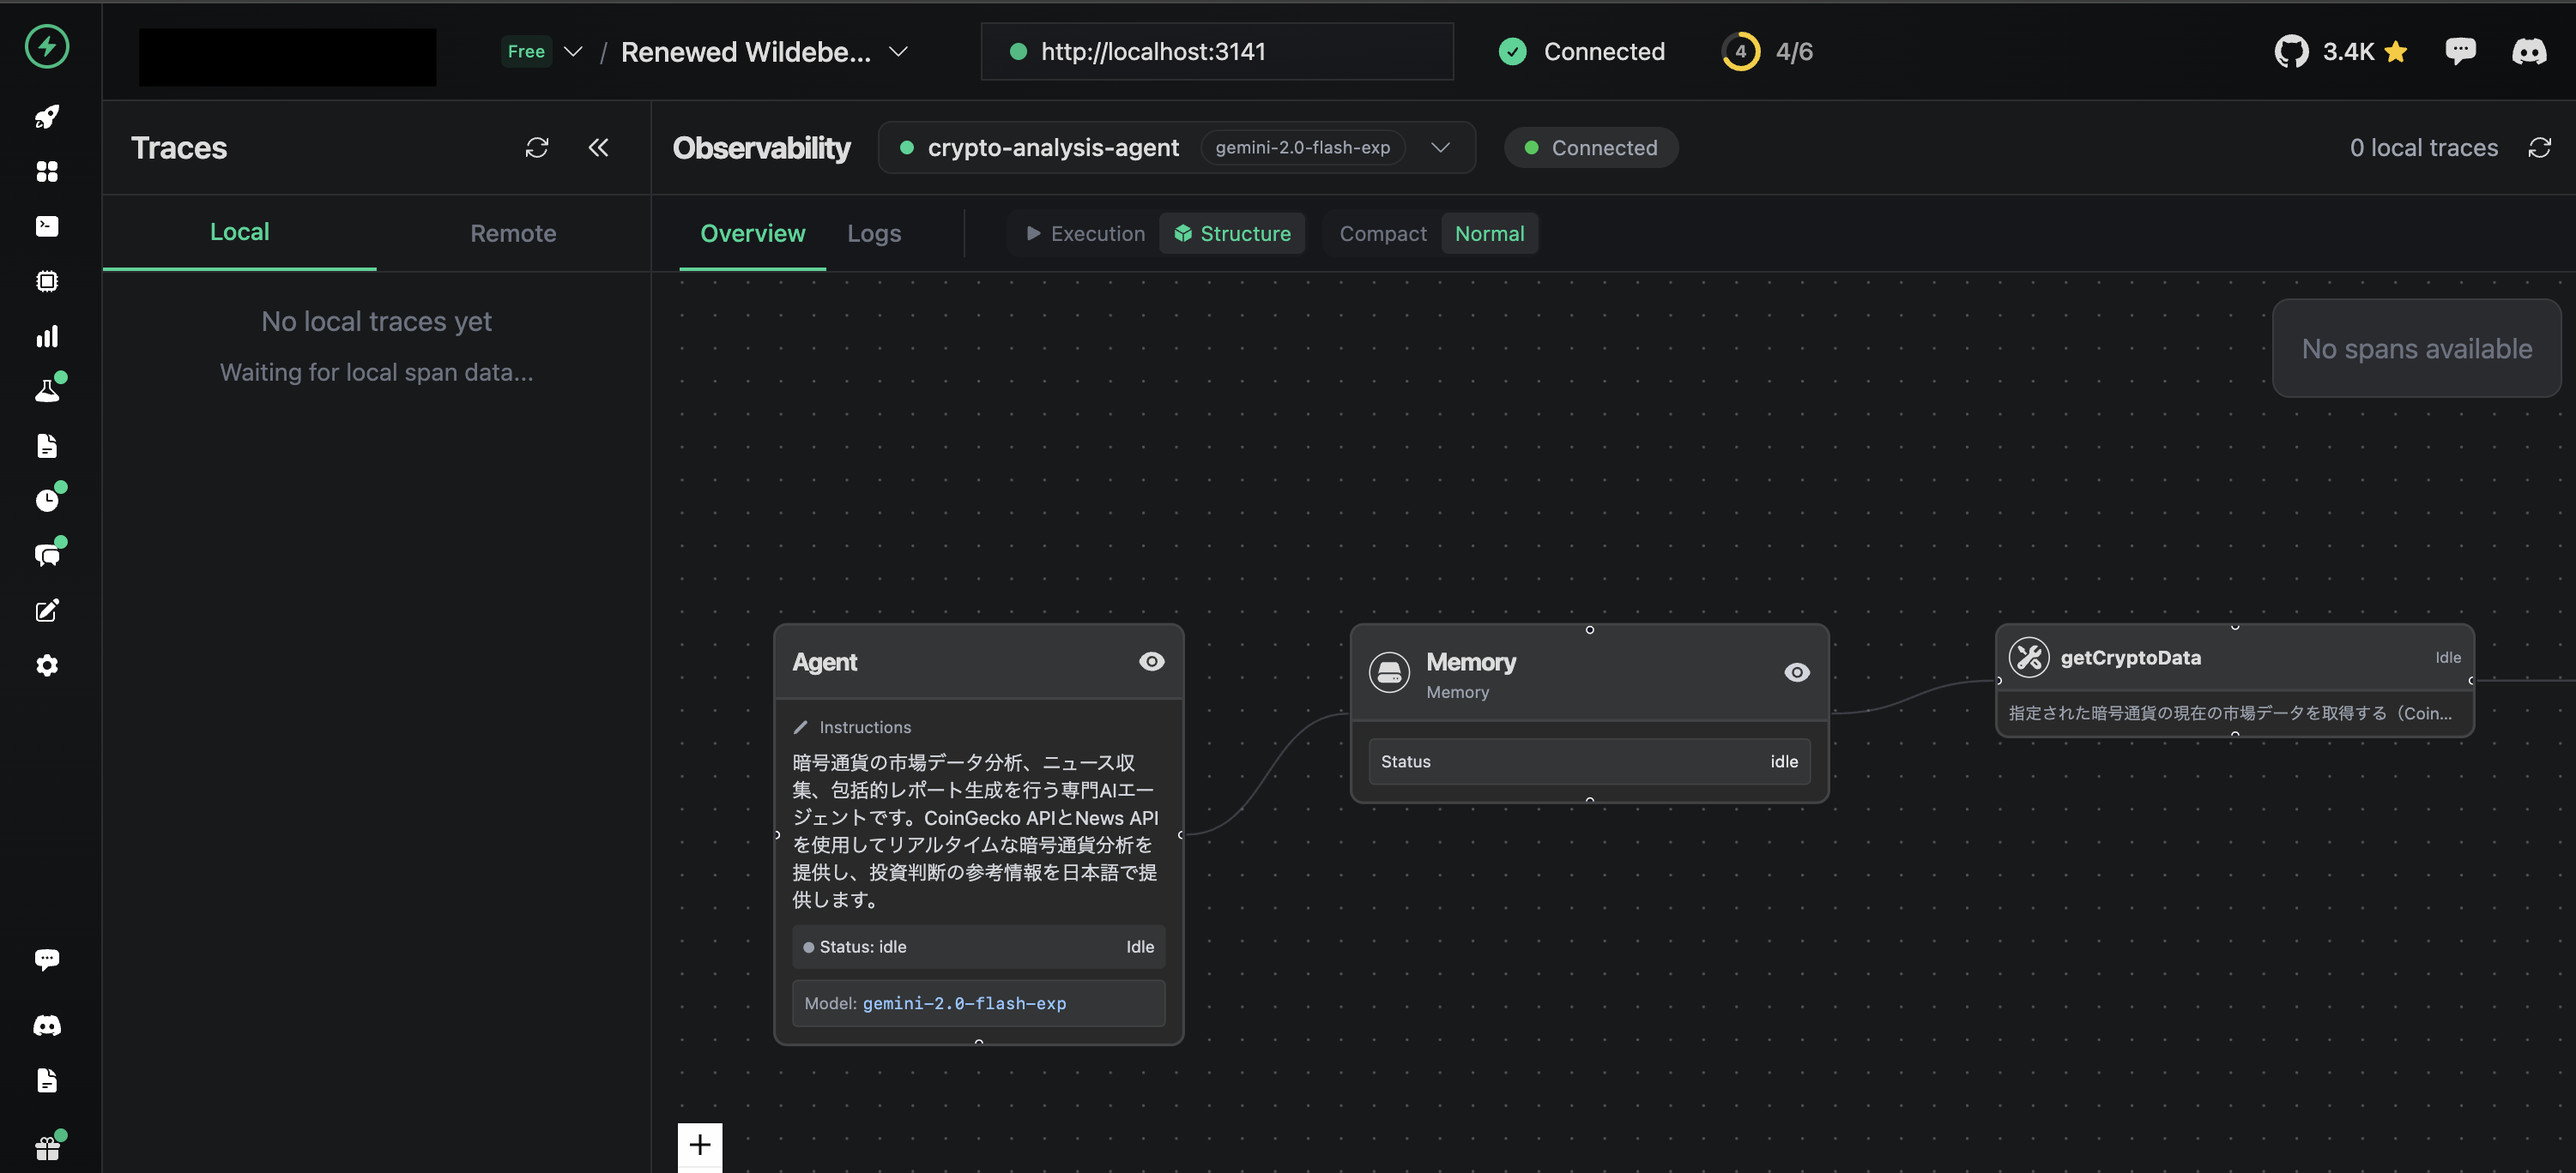
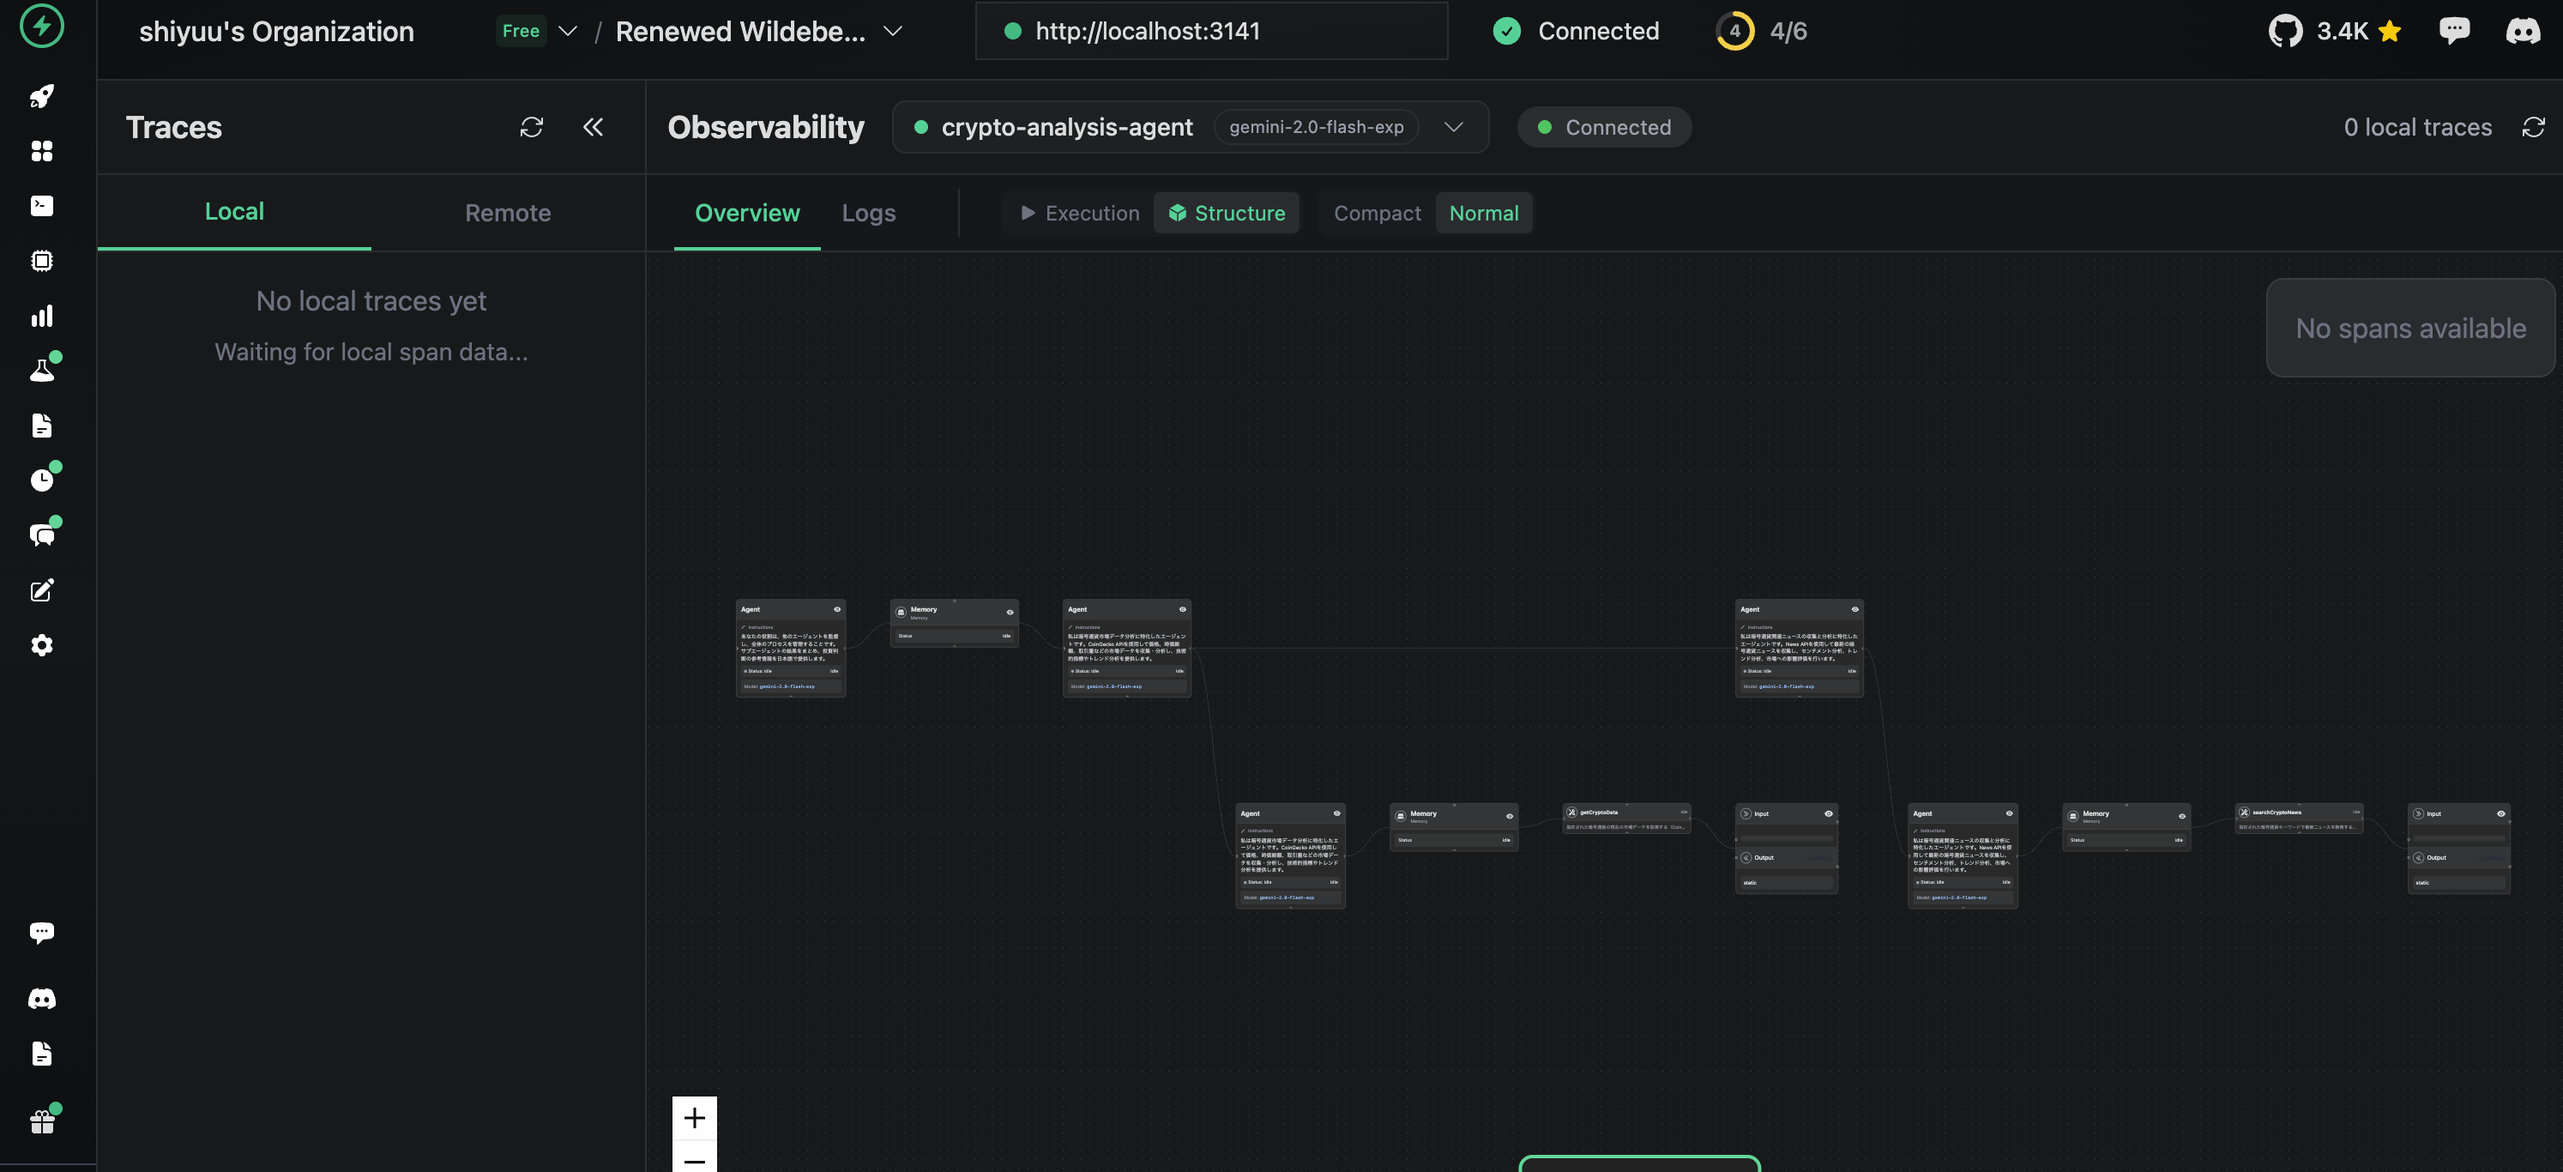
docs: プレゼンテーションのフォントサイズを調整し、実装デモのセクションを統合

diff --git a/docs/demo-presentation.md b/docs/demo-presentation.md
@@ -10,7 +10,7 @@ style: |
       font-family: 'SF Mono', 'Monaco', 'Cascadia Code', 'Roboto Mono', monospace;
       background: linear-gradient(135deg, #667eea 0%, #764ba2 100%);
       color: #ffffff;
-      font-size: 22px;
+      font-size: 20px;
       padding: 30px;
     }
     h1 {
@@ -58,7 +58,7 @@ style: |
       margin: 8px 0;
       font-family: 'Fira Code', monospace;
       color: #a0aec0;
-      font-size: 0.8em;
+      font-size: 0.75em;
     }
     .tech-grid {
       display: grid;
@@ -89,7 +89,7 @@ style: |
       border-radius: 6px;
       padding: 12px;
       overflow-x: auto;
-      font-size: 0.75em;
+      font-size: 0.7em;
       margin: 0.5em 0;
     }
     code {
@@ -139,8 +139,7 @@ style: |
 6. **🎯 統一API**
 7. **📊 可観測性（VoltOps）**
 8. **🧠 メモリ管理**
-9. **💻 実装デモ（1）**
-10. **💻 実装デモ（2）**
+9. **💻 実装デモ**
 
 </div>
 
@@ -347,29 +346,26 @@ https://voltagent.dev/
 <div class="code-box">
 
 ```typescript
-// src/index.ts - 実際のプロジェクトコード
-// メイン暗号通貨分析エージェント（司令塔）
-const cryptoAgent = new Agent({
-  name: "crypto-analysis-agent",
-  instructions: "暗号通貨の市場データ分析、ニュース収集、包括的レポート生成",
-  model: google("gemini-2.0-flash-exp"),
-  tools: [cryptoDataTool, cryptoNewsSearchTool, cryptoAnalysisTool],
-  memory,
-});
-
-// 市場データ専門サブエージェント
+// src/index.ts
 const cryptoDataAnalyst = new Agent({
   name: "crypto-data-analyst",
-  instructions: "CoinGecko APIで価格、時価総額、取引量などを収集・分析",
-  tools: [cryptoDataTool],  // 専門化：市場データのみ
+  model: google("gemini-2.0-flash-exp"),
+  tools: [cryptoDataTool],
   memory,
 });
 
-// ニュース分析専門サブエージェント  
 const cryptoNewsAnalyst = new Agent({
   name: "crypto-news-analyst",
-  instructions: "News APIでニュース収集、センチメント分析、影響評価",
-  tools: [cryptoNewsSearchTool],  // 専門化：ニュースのみ
+  model: google("gemini-2.0-flash-exp"),
+  tools: [cryptoNewsSearchTool],
+  memory,
+});
+
+const cryptoAgent = new Agent({
+  name: "crypto-analysis-agent",
+  instructions: "あなたの役割は、他のエージェントを監督し、全体のプロセスを管理することです。サブエージェントの結果をまとめ、投資判断の参考情報を日本語で提供します。",
+  model: google("gemini-2.0-flash-exp"),
+  subAgents: [cryptoDataAnalyst, cryptoNewsAnalyst],
   memory,
 });
 ```
@@ -434,10 +430,11 @@ Gemini、GPT-4、Claude等、異なるLLMプロバイダを統一APIで簡単切
 // src/index.ts - 実際のプロジェクトコード
 import { google } from "@ai-sdk/google";
 
-const cryptoAgent = new Agent({
-  name: "crypto-analysis-agent",
-  model: google("gemini-2.0-flash-exp"),  // Gemini 2.0
-  tools: [cryptoDataTool, cryptoNewsSearchTool, cryptoAnalysisTool],
+const cryptoNewsAnalyst = new Agent({
+  name: "crypto-news-analyst",
+  model: google("gemini-2.0-flash-exp"),
+  tools: [cryptoNewsSearchTool],
+  memory,
 });
 
 // 他のプロバイダへの切り替えも簡単
@@ -573,7 +570,7 @@ const cryptoAgent = new Agent({
 
 ---
 
-## 9. 💻 実装デモ（1）
+## 9. 💻 実装デモ
 
 ### 🎬 実演デモシナリオ
 
@@ -621,40 +618,6 @@ const cryptoAgent = new Agent({
 
 </div>
 </div>
-
----
-
-## 10. 💻 実装デモ（2）
-
-```typescript
-// メイン統合エージェント（司令塔役）
-const cryptoAgent = new Agent({
-  name: "crypto-analysis-agent",
-  instructions: "暗号通貨の包括的分析レポートを生成...",
-  tools: [cryptoDataTool, cryptoNewsSearchTool, cryptoAnalysisTool]
-});
-
-// データ分析専門サブエージェント
-const cryptoDataAnalyst = new Agent({
-  name: "crypto-data-analyst", 
-  instructions: "CoinGecko APIで市場データ収集・分析...",
-  tools: [cryptoDataTool]  // 価格・時価総額・取引量
-});
-
-// ニュース分析専門サブエージェント  
-const cryptoNewsAnalyst = new Agent({
-  name: "crypto-news-analyst",
-  instructions: "News APIでニュース収集・センチメント分析...", 
-  tools: [cryptoNewsSearchTool]  // ニュース・センチメント
-});
-
-new VoltAgent({
-  agents: { cryptoAgent, cryptoDataAnalyst, cryptoNewsAnalyst },
-  // workflows: { cryptoAnalysisWorkflow }
-});
-```
-
-
 
 ---
 ## 🤝 ご清聴ありがとうございました！
